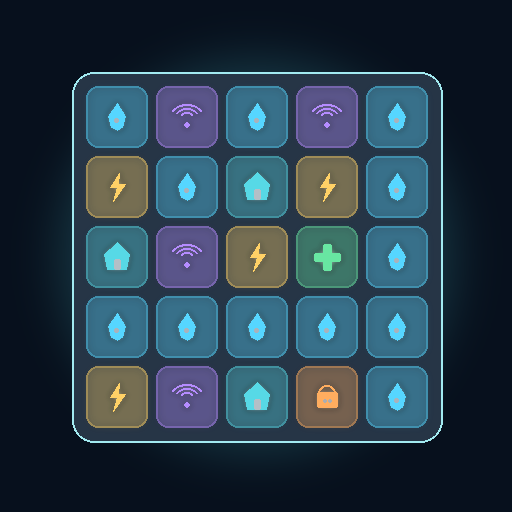
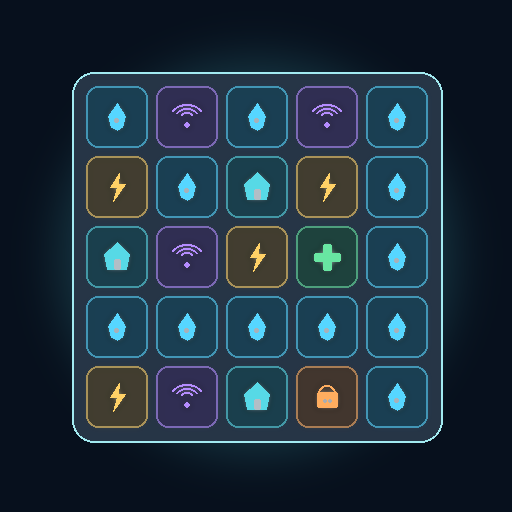
Darken Supply Shuffle tile containers

Changed region(s): [[0.1562, 0.1562, 0.8438, 0.8438]]

diff --git a/games/supply-shuffle/module.js b/games/supply-shuffle/module.js
@@ -814,8 +814,8 @@ export function mountGame(session, options = {}) {
         ctx.translate(x + size / 2 + invalidWobble, y + size / 2);
         ctx.scale(1 + pulse, 1 + pulse);
         ctx.shadowColor = definition.color;
-        ctx.shadowBlur = invalid ? 18 : Math.max(3, layout.cellSize * 0.09);
-        ctx.fillStyle = hexToRgba(definition.color, 0.28);
+        ctx.shadowBlur = invalid ? 18 : Math.max(3, layout.cellSize * 0.08);
+        ctx.fillStyle = mixHexToRgba(definition.color, "#07101d", 0.24, 0.94);
         roundRect(-size / 2, -size / 2, size, size, Math.max(7, size * 0.22));
         ctx.fill();
         ctx.shadowBlur = 0;
@@ -1295,6 +1295,15 @@ export function mountGame(session, options = {}) {
         const red = parseInt(value.slice(0, 2), 16);
         const green = parseInt(value.slice(2, 4), 16);
         const blue = parseInt(value.slice(4, 6), 16);
+        return `rgba(${red}, ${green}, ${blue}, ${alpha})`;
+    }
+
+    function mixHexToRgba(hex, baseHex, amount, alpha) {
+        const color = hex.replace("#", "");
+        const base = baseHex.replace("#", "");
+        const red = Math.round(parseInt(color.slice(0, 2), 16) * amount + parseInt(base.slice(0, 2), 16) * (1 - amount));
+        const green = Math.round(parseInt(color.slice(2, 4), 16) * amount + parseInt(base.slice(2, 4), 16) * (1 - amount));
+        const blue = Math.round(parseInt(color.slice(4, 6), 16) * amount + parseInt(base.slice(4, 6), 16) * (1 - amount));
         return `rgba(${red}, ${green}, ${blue}, ${alpha})`;
     }
 